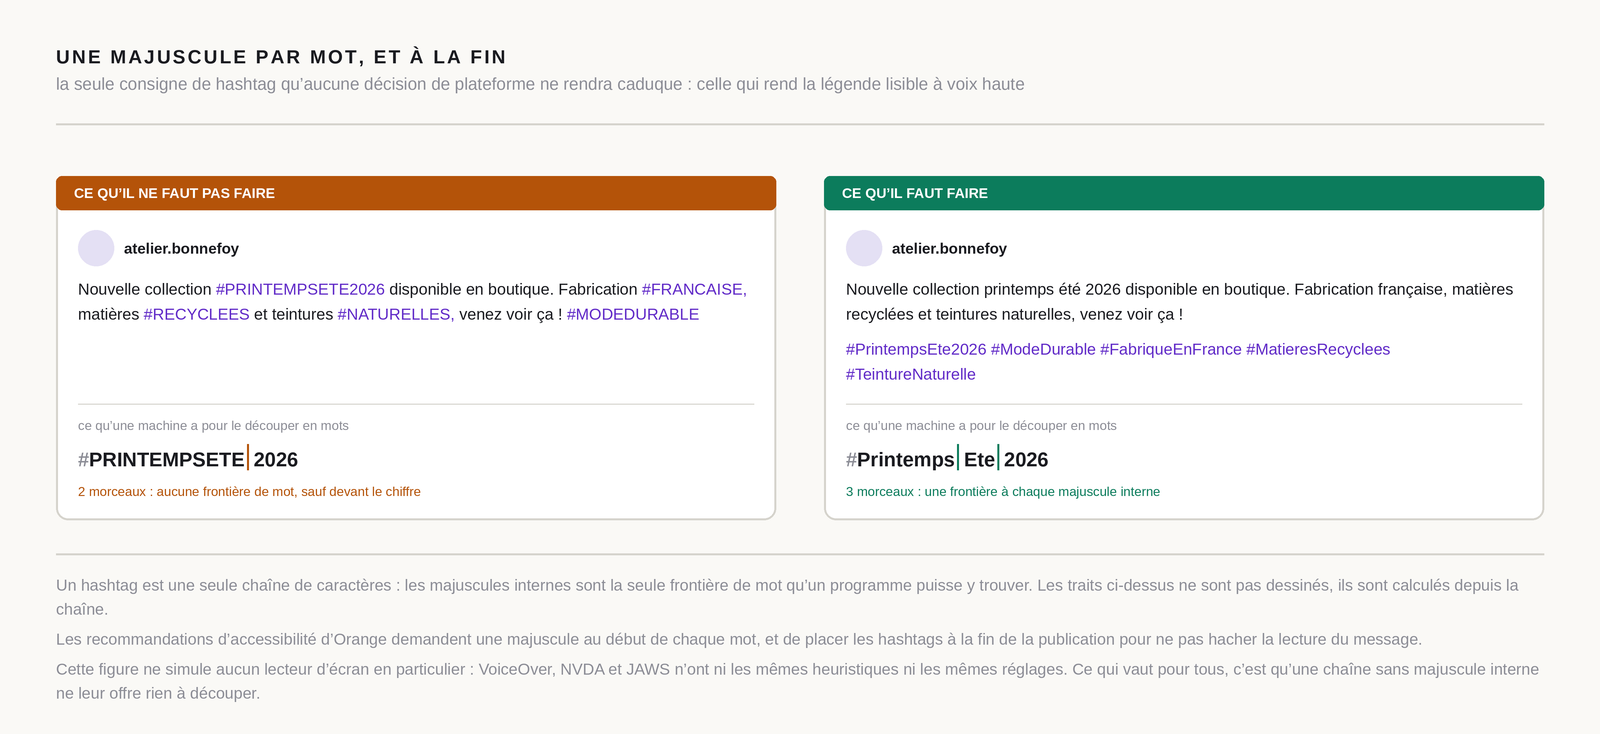
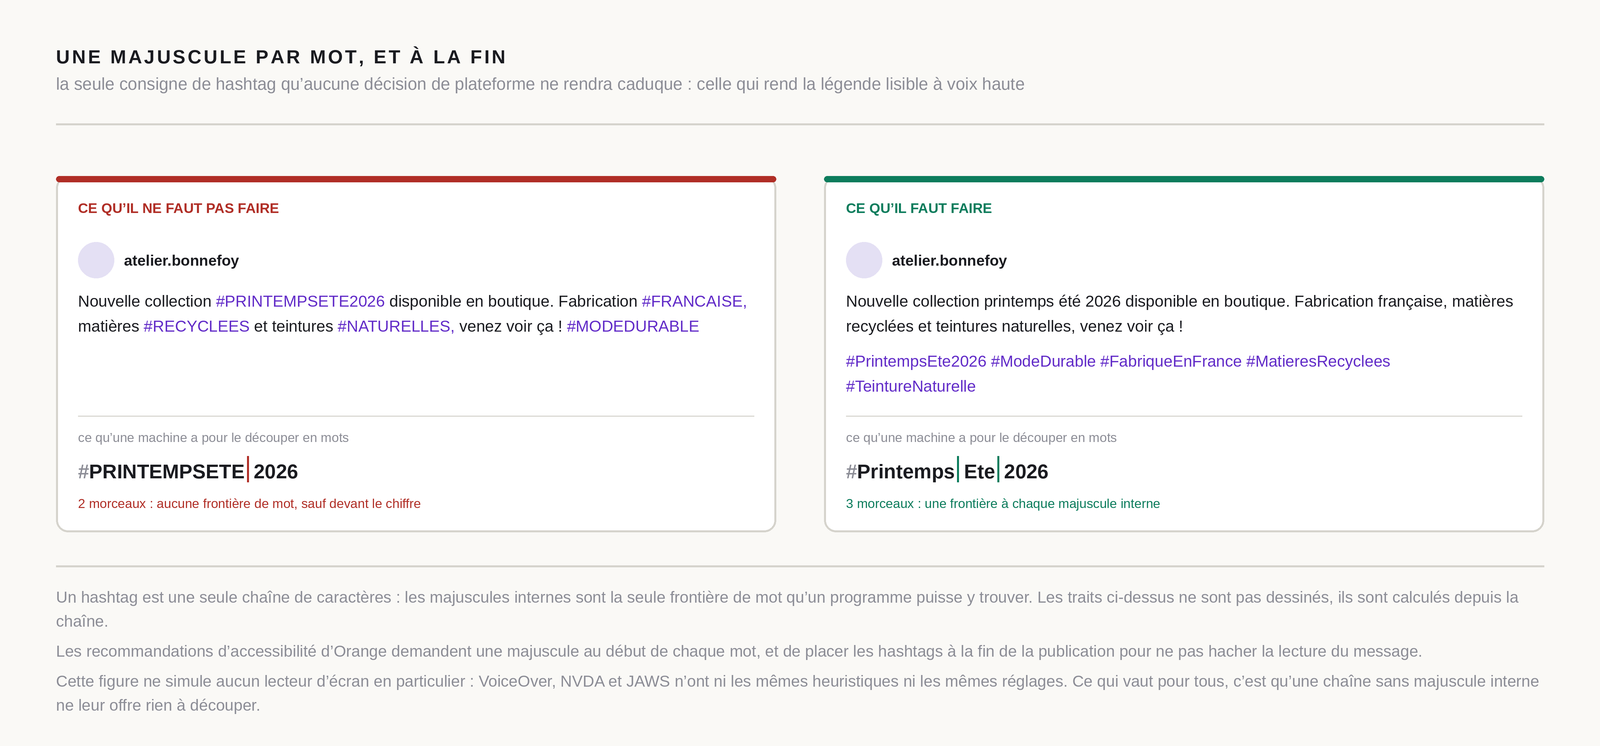
IMAGE 4 : remise à la charte, teintes de signalisation et filet
Deux écarts signalés par le client, tous les deux fondés.

La charte réserve DEUX teintes de signalisation, ALERTE et VERT, « aux
figures qui opposent un état sain à un état dégradé », et précise qu'elles
« ne servent jamais de décor : dès qu'elles apparaissent, elles veulent
dire quelque chose ». Cette figure ne fait que ça, opposer une légende
fautive à une légende correcte : c'était donc cette paire. J'avais employé
un ambre introduit pour distinguer des séries dans un graphique, teinte
muette quand il s'agit de dire « ceci est fautif ». Les deux constantes
sont maintenant importées de charte.py plutôt que recopiées, pour suivre
la charte si elle bouge.

Et le bandeau plein de trente-quatre pixels avec du texte blanc dessus
n'existe nulle part ailleurs dans la série. Toutes les autres figures
tiennent sur du papier clair, des cartes blanches, un filet fin, la
couleur réservée aux accents. Le bandeau ne disait rien de plus, il criait
plus fort. Remplacé par un filet de six pixels en tête de carte et le
verdict écrit dans sa couleur, comme sur la frise.

Contrastes relevés : ALERTE 6,11:1 et VERT 4,92:1 sur le papier.

Claude-Session: https://claude.ai/code/session_015un2t2xRvThoKm9jAu6CXK

diff --git a/article-hashtags/hashtags_lisibles.py b/article-hashtags/hashtags_lisibles.py
@@ -52,9 +52,24 @@ import dessin as D
 L = 1600
 MARGE = 56
 
-VIOLET = (98, 44, 200)
-AMBRE = (180, 83, 9)
-VERT = (12, 124, 92)
+#  ---------------------------------------------------------------------------
+#  LES TEINTES VIENNENT DE LA CHARTE, ET PAS D'ICI
+#
+#  Premier jet : un ambre de mon cru pour le mauvais exemple, et des
+#  bandeaux pleins en tête de carte. Deux erreurs.
+#
+#  La charte réserve DEUX teintes de signalisation, ALERTE et VERT, « aux
+#  figures qui opposent un état sain à un état dégradé ». C'est exactement
+#  ce que fait cette figure, donc c'est cette paire qui s'applique. L'ambre
+#  est une teinte de SÉRIE, bonne pour distinguer trois courbes dans un
+#  graphique, muette quand il s'agit de dire « ceci est fautif ».
+#
+#  Et on ne les importe pas en les recopiant : `C.ALERTE` et `C.VERT`
+#  suivent la charte si elle bouge, une constante locale non.
+#  ---------------------------------------------------------------------------
+VIOLET = C.VIOLET_TEXTE
+ALERTE = C.ALERTE
+VERT = C.VERT
 
 #  Les trois consignes de l'article, qui servent de contrôles.
 HASHTAGS_ATTENDUS = 5
@@ -197,7 +212,7 @@ def composer():
     o.append(trait("titre", [MARGE, 124, L - MARGE, 124], D.FILET, 2))
 
     colonnes = (
-        {"x": MARGE, "teinte": AMBRE, "verdict": "CE QU’IL NE FAUT PAS FAIRE",
+        {"x": MARGE, "teinte": ALERTE, "verdict": "CE QU’IL NE FAUT PAS FAIRE",
          "mots": D.typo(MAUVAISE).split(), "queue": (),
          "demo": DEMO[0],
          "etiq": "aucune frontière de mot, sauf devant le chiffre"},
@@ -214,7 +229,7 @@ def composer():
     for c in colonnes:
         essai = []
         y = paragraphe(essai, "essai", mesure, fontes["legende"],
-                       c["x"] + 22, Y_CARTE + 104, LARGEUR_CARTE - 44,
+                       c["x"] + 22, Y_CARTE + 116, LARGEUR_CARTE - 44,
                        c["mots"], D.ENCRE, VIOLET)
         if c["queue"]:
             y = paragraphe(essai, "essai", mesure, fontes["legende"],
@@ -229,19 +244,26 @@ def composer():
         b = [x0, Y_CARTE, x1, Y_CARTE + hauteur]
         o.append(rect("cartes", b, 12, D.BLANC))
         o.append(cadre("cartes", b, 12, D.FILET, 2))
-        o.append(rect("cartes", [x0, Y_CARTE, x1, Y_CARTE + 34], 6,
+        #  UN FILET EN TÊTE, PAS UN BANDEAU PLEIN.
+        #
+        #  Trente-quatre pixels d'aplat saturé avec du texte blanc dessus :
+        #  aucune autre figure de la série n'en porte. Toutes tiennent sur
+        #  du papier clair, des cartes blanches, un filet fin, et la couleur
+        #  réservée aux accents. Le bandeau ne disait rien de plus que le
+        #  filet, il criait seulement plus fort.
+        o.append(rect("cartes", [x0, Y_CARTE, x1, Y_CARTE + 6], 3,
                       c["teinte"]))
-        o.append(texte("cartes", (x0 + 18, Y_CARTE + 9), c["verdict"],
-                       "verdict", D.BLANC))
+        o.append(texte("cartes", (x0 + 22, Y_CARTE + 24), c["verdict"],
+                       "verdict", c["teinte"]))
 
         #  L'entête de publication, réduit à ce qu'il faut pour qu'on
         #  reconnaisse une légende de réseau social.
-        o.append(disque("cartes", x0 + 40, Y_CARTE + 72, 18, (228, 224, 244)))
-        o.append(texte("cartes", (x0 + 68, Y_CARTE + 64), COMPTE, "compte",
+        o.append(disque("cartes", x0 + 40, Y_CARTE + 84, 18, (228, 224, 244)))
+        o.append(texte("cartes", (x0 + 68, Y_CARTE + 76), COMPTE, "compte",
                        D.ENCRE))
 
         y = paragraphe(o, "textes", mesure, fontes["legende"], x0 + 22,
-                       Y_CARTE + 104, LARGEUR_CARTE - 44, c["mots"],
+                       Y_CARTE + 116, LARGEUR_CARTE - 44, c["mots"],
                        D.ENCRE, VIOLET)
         if c["queue"]:
             y = paragraphe(o, "textes", mesure, fontes["legende"], x0 + 22,
@@ -402,7 +424,7 @@ def principal():
     base = os.path.join(os.path.dirname(os.path.abspath(__file__)),
                         "hashtags-majuscule-par-mot")
     D.verifier(("encre", D.ENCRE, 4.5), ("gris", D.GRIS, 4.5),
-               ("violet", VIOLET, 4.5), ("ambre", AMBRE, 4.5),
+               ("violet", VIOLET, 4.5), ("alerte", ALERTE, 4.5),
                ("vert", VERT, 4.5))
 
     H, ordres = composer()
